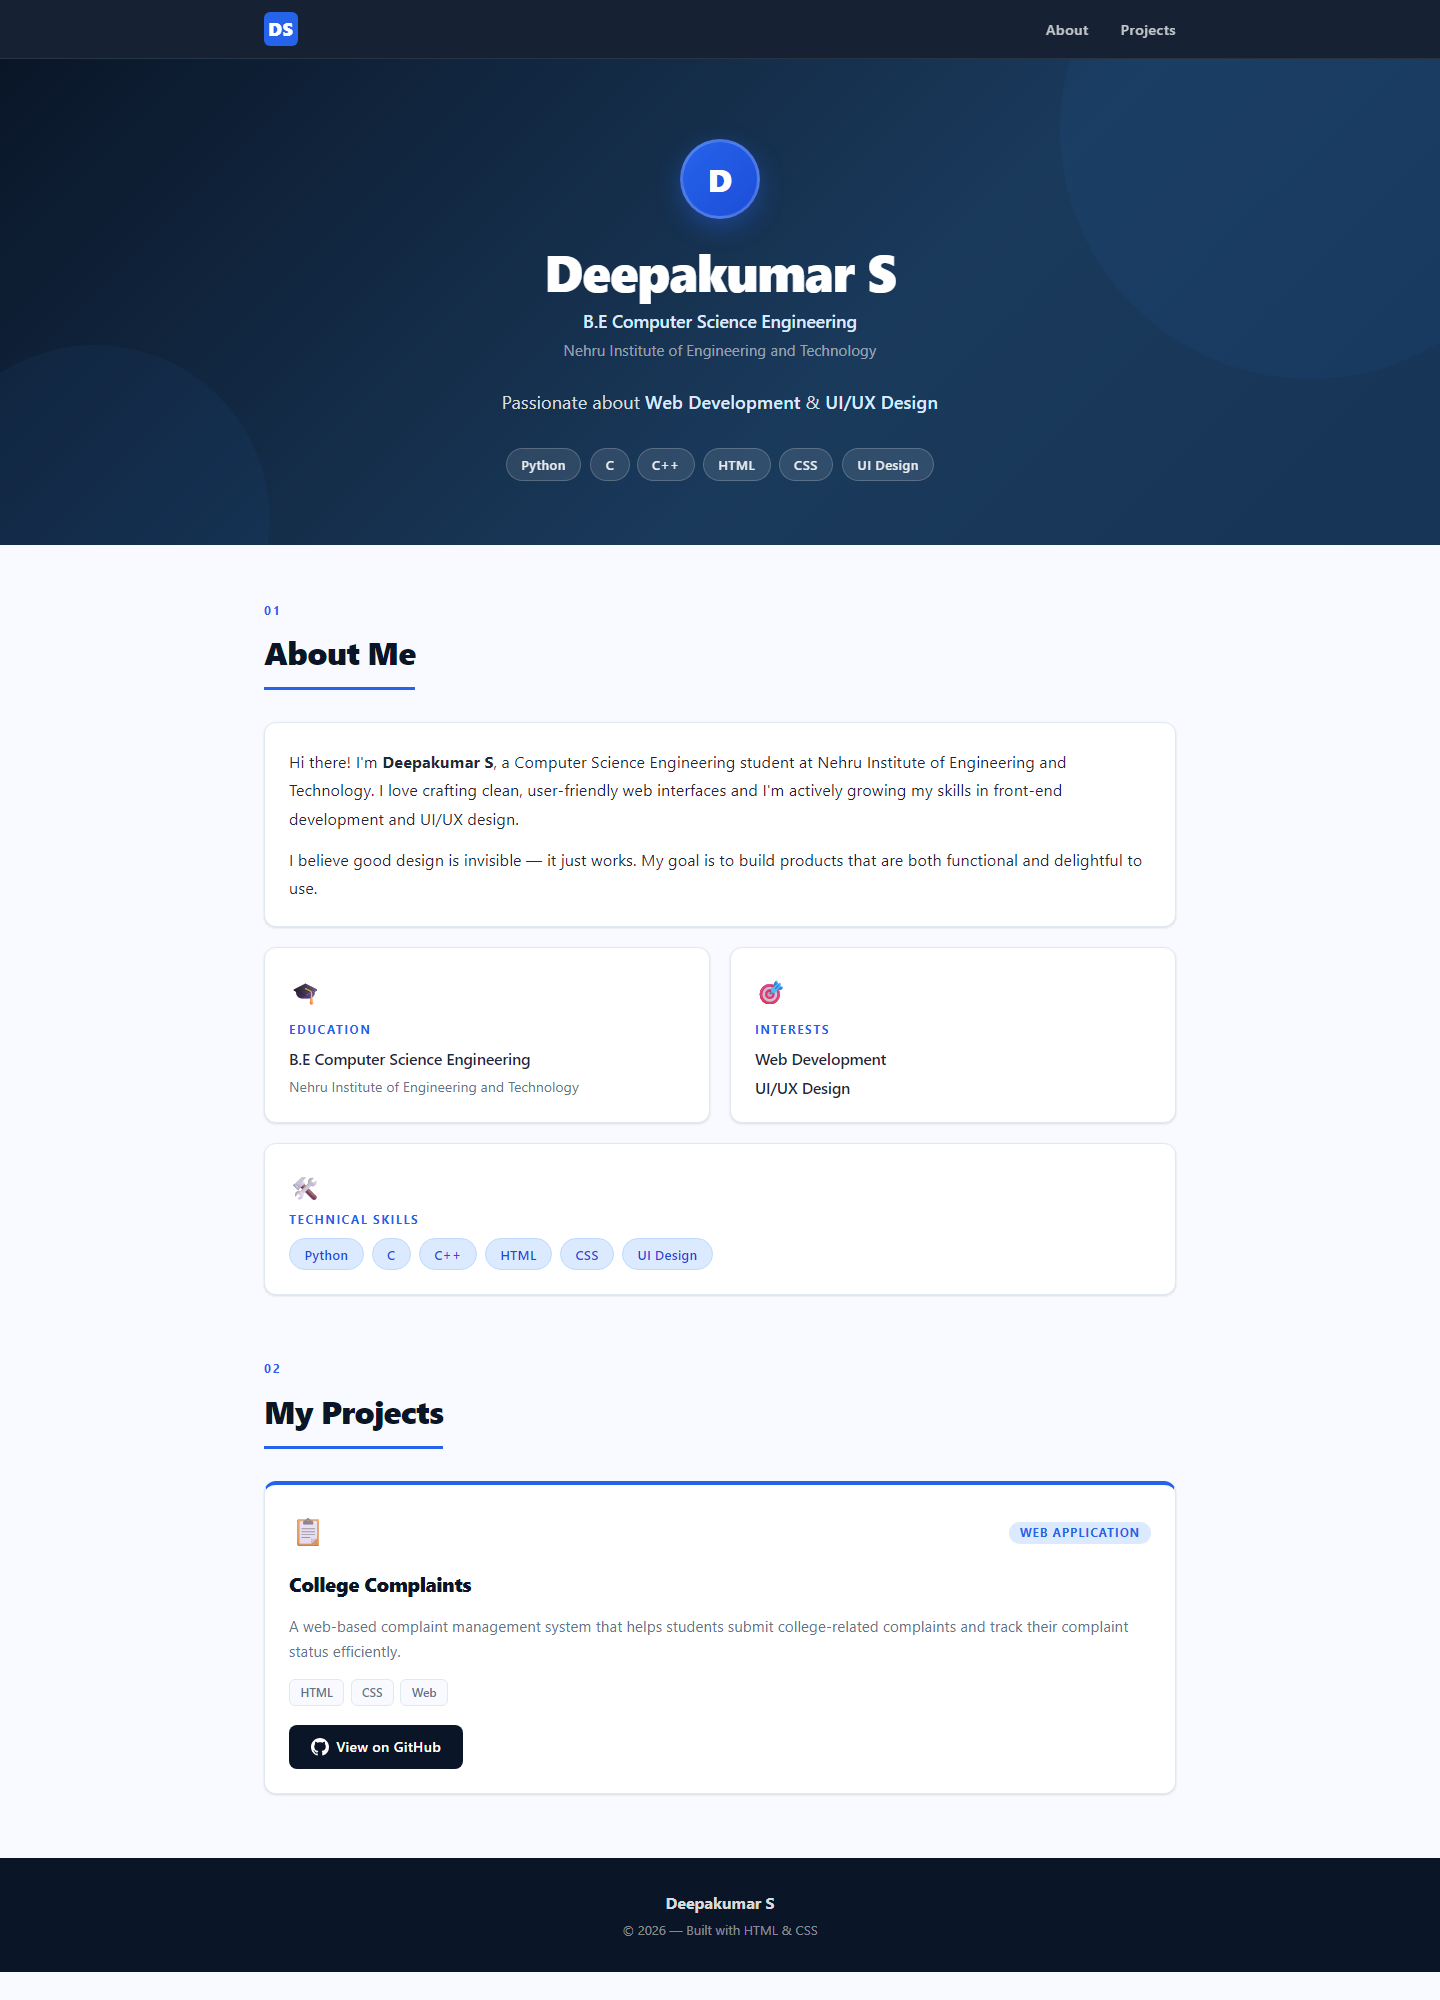
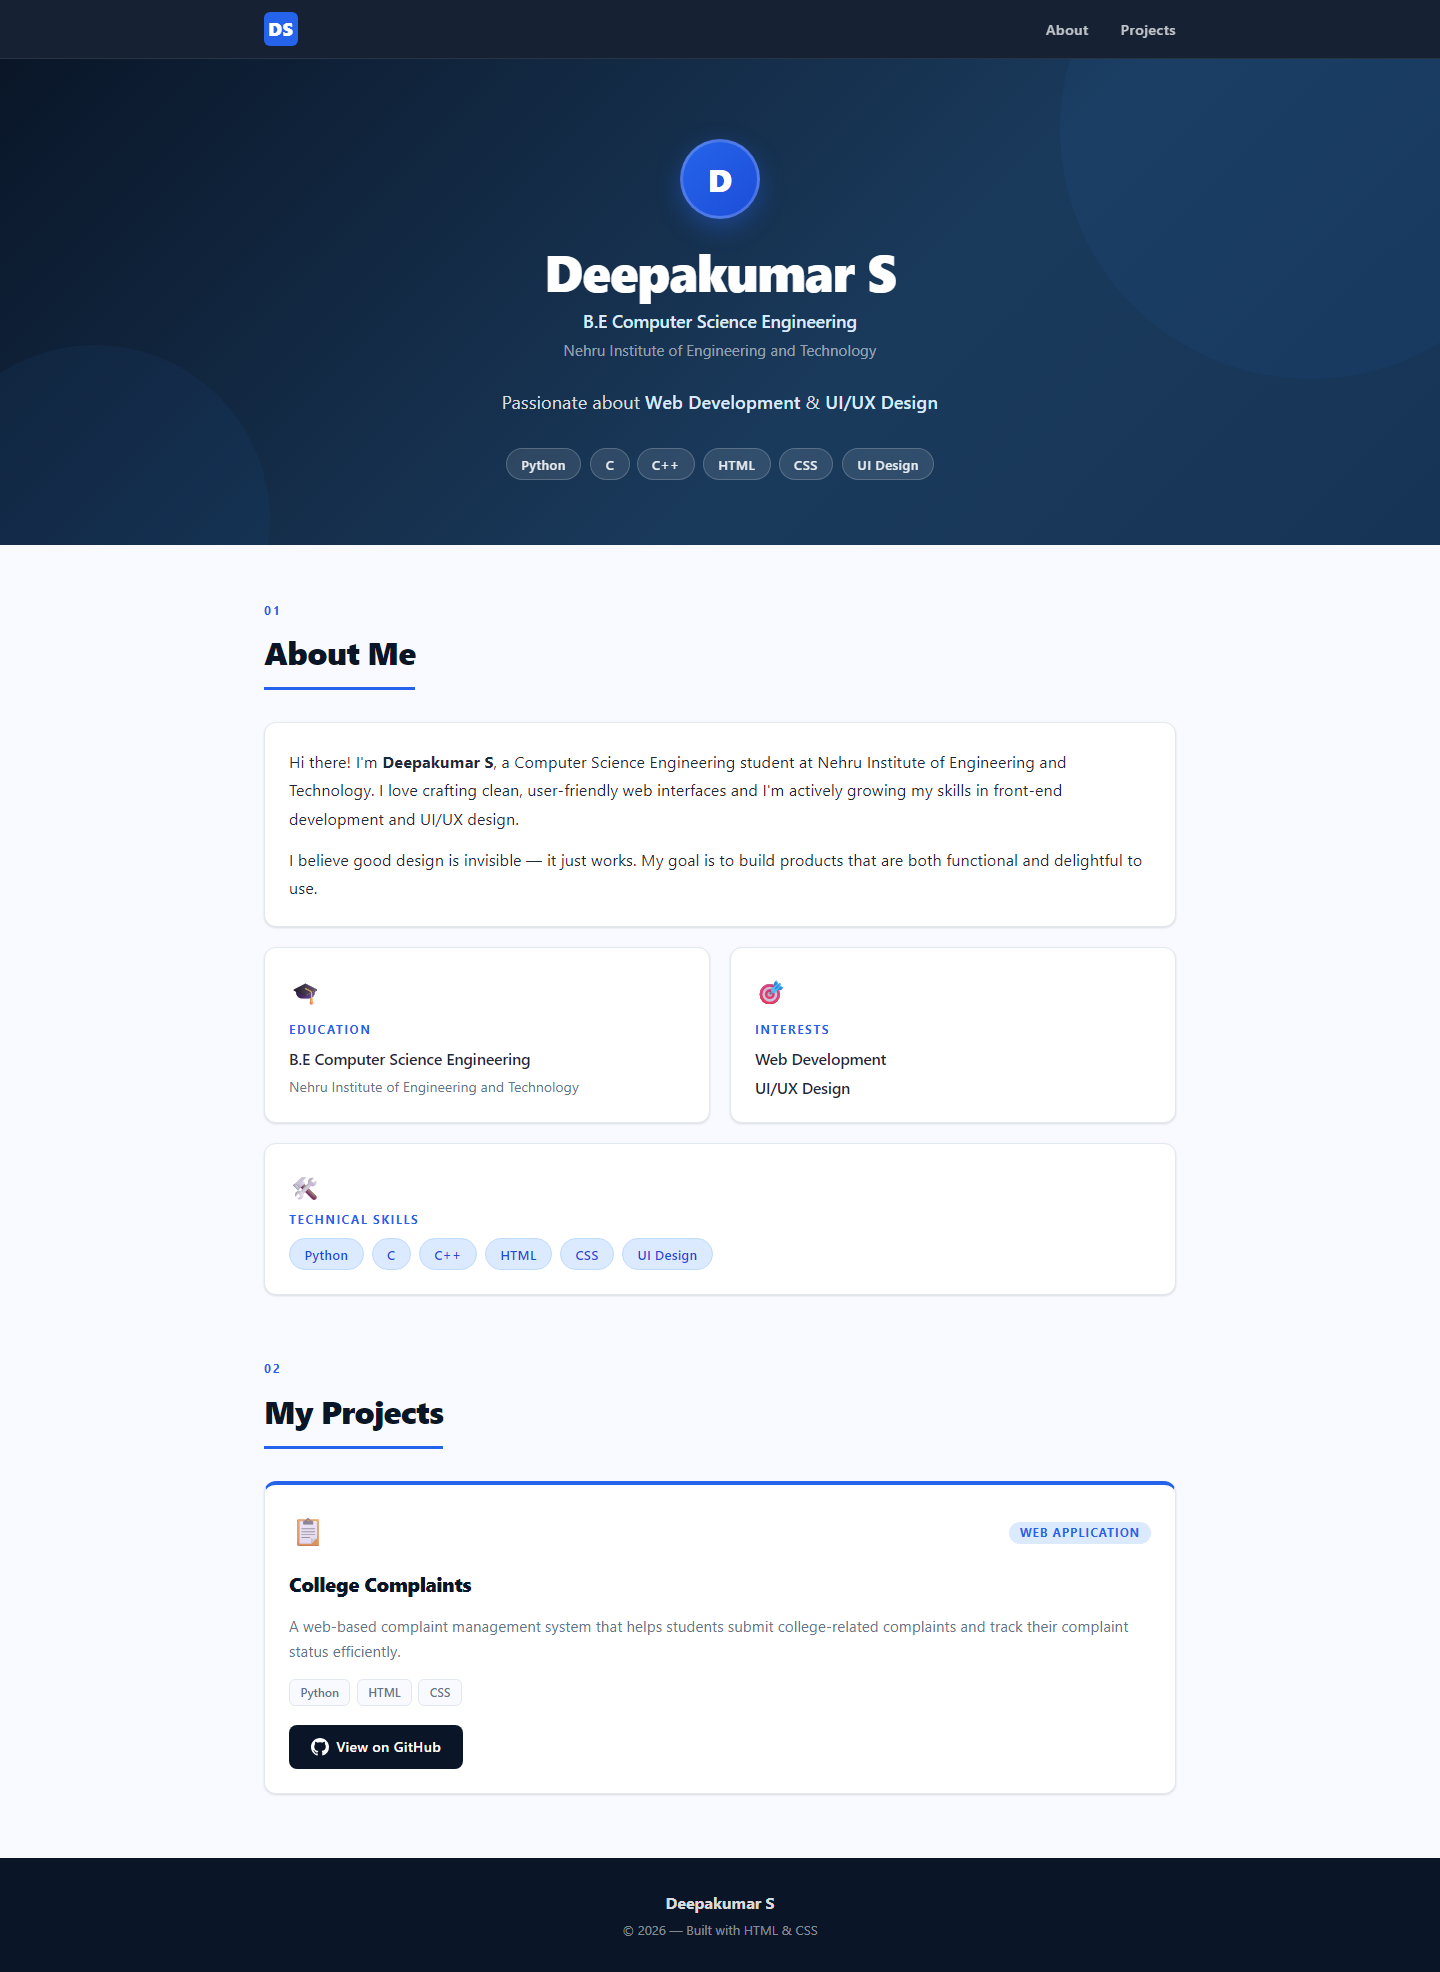
fix(audit): navigation scroll-margin, accurate tech stack, reduced-motion a11y, and update screenshots

diff --git a/style.css b/style.css
@@ -7,7 +7,7 @@
 
 /* ── RESET ──────────────────────────────────────────────────────── */
 *, *::before, *::after { box-sizing: border-box; margin: 0; padding: 0; }
-html { scroll-behavior: smooth; overflow-x: hidden; }
+html { scroll-behavior: smooth; }
 
 /* ── DESIGN TOKENS ──────────────────────────────────────────────── */
 :root {
@@ -36,7 +36,6 @@ body {
   font: 16px/1.6 system-ui, -apple-system, 'Segoe UI', sans-serif;
   color: var(--text);
   background: var(--bg);
-  overflow-x: hidden;
   word-break: break-word;
   overflow-wrap: break-word;
 }
@@ -209,6 +208,11 @@ button { cursor: pointer; }
 }
 
 /* ── SECTION ────────────────────────────────────────────────────── */
+.section,
+#top {
+  scroll-margin-top: 5rem;
+}
+
 .section { margin-bottom: 4rem; position: relative; }
 .section:last-child { margin-bottom: 0; }
 
@@ -487,7 +491,21 @@ button { cursor: pointer; }
 @media (max-width: 320px) {
   body { font-size: 14px; }
   .hero { padding: 2rem .75rem 1.75rem; }
+  .hero-name { font-size: 1.6rem; }
   .main-content { padding: 1.5rem .75rem 2rem; }
   .nav-links a { font-size: .78rem; }
   .skill-tag { font-size: .78rem; padding: .25rem .7rem; }
+}
+
+/* ── Accessibility: Reduced Motion ── */
+@media (prefers-reduced-motion: reduce) {
+  html {
+    scroll-behavior: auto;
+  }
+  *, *::before, *::after {
+    animation-duration: 0.01ms !important;
+    animation-iteration-count: 1 !important;
+    transition-duration: 0.01ms !important;
+    scroll-behavior: auto !important;
+  }
 }

diff --git a/index.html b/index.html
@@ -121,9 +121,9 @@
             college-related complaints and track their complaint status efficiently.
           </p>
           <div class="project-tech" aria-label="Technologies used">
+            <span class="tech-tag">Python</span>
             <span class="tech-tag">HTML</span>
             <span class="tech-tag">CSS</span>
-            <span class="tech-tag">Web</span>
           </div>
           <a
             class="project-link"
